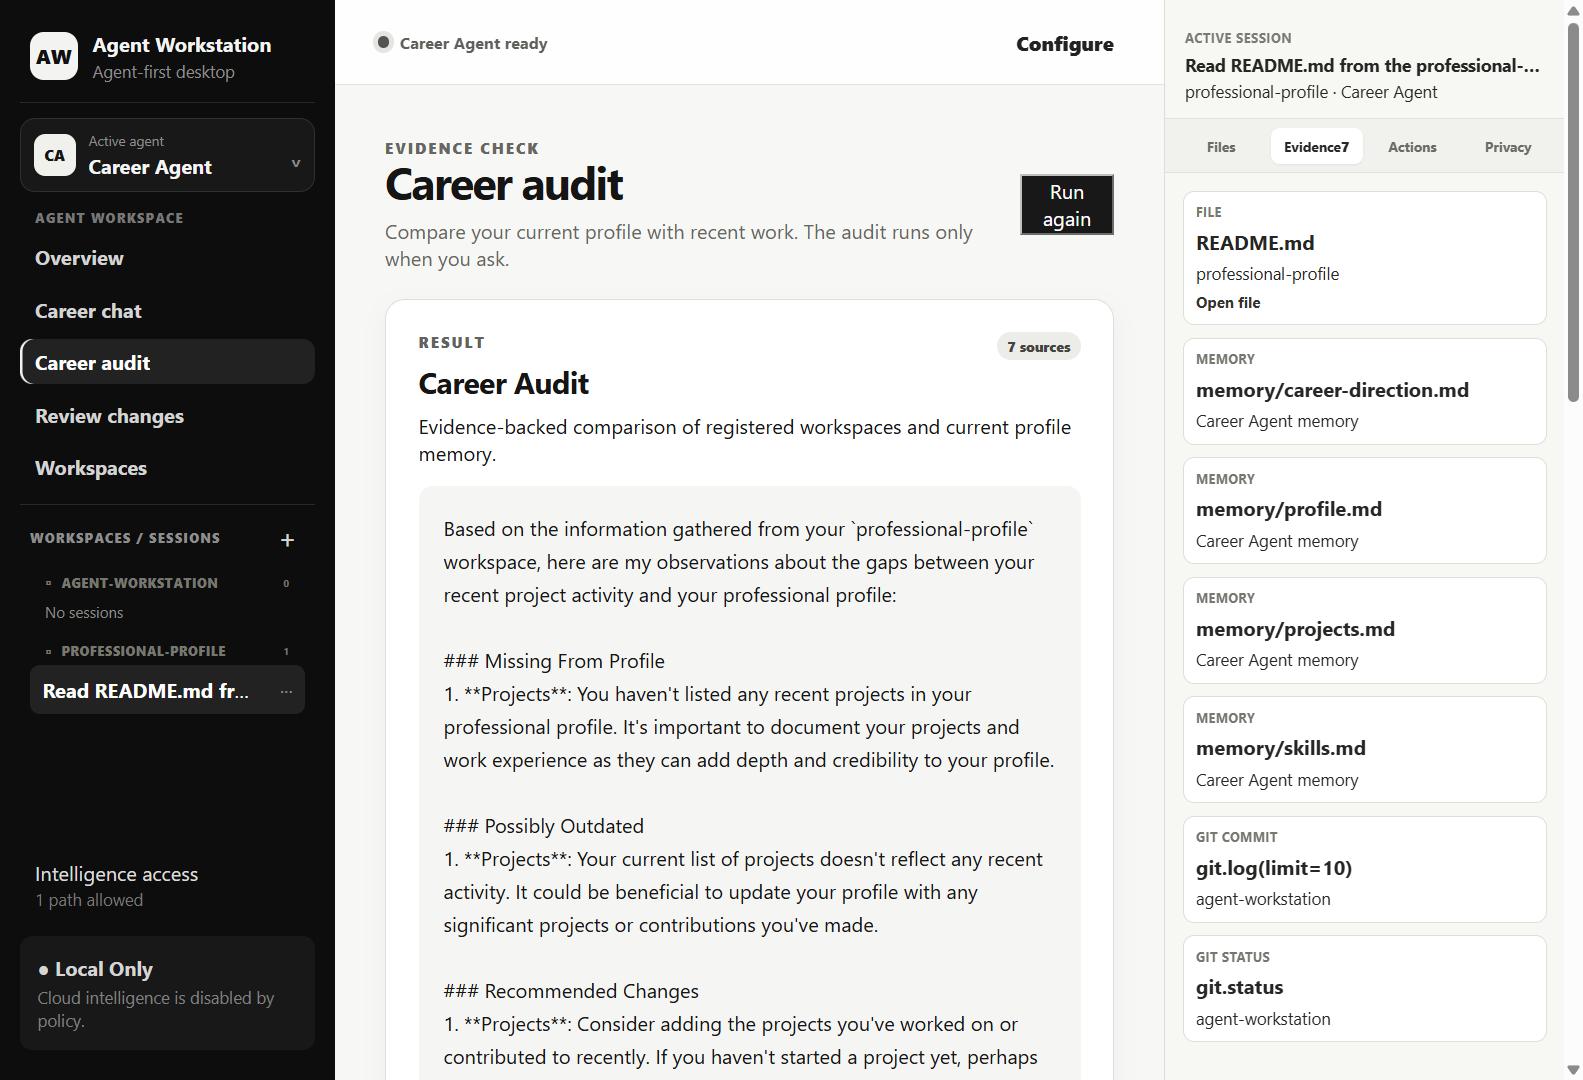
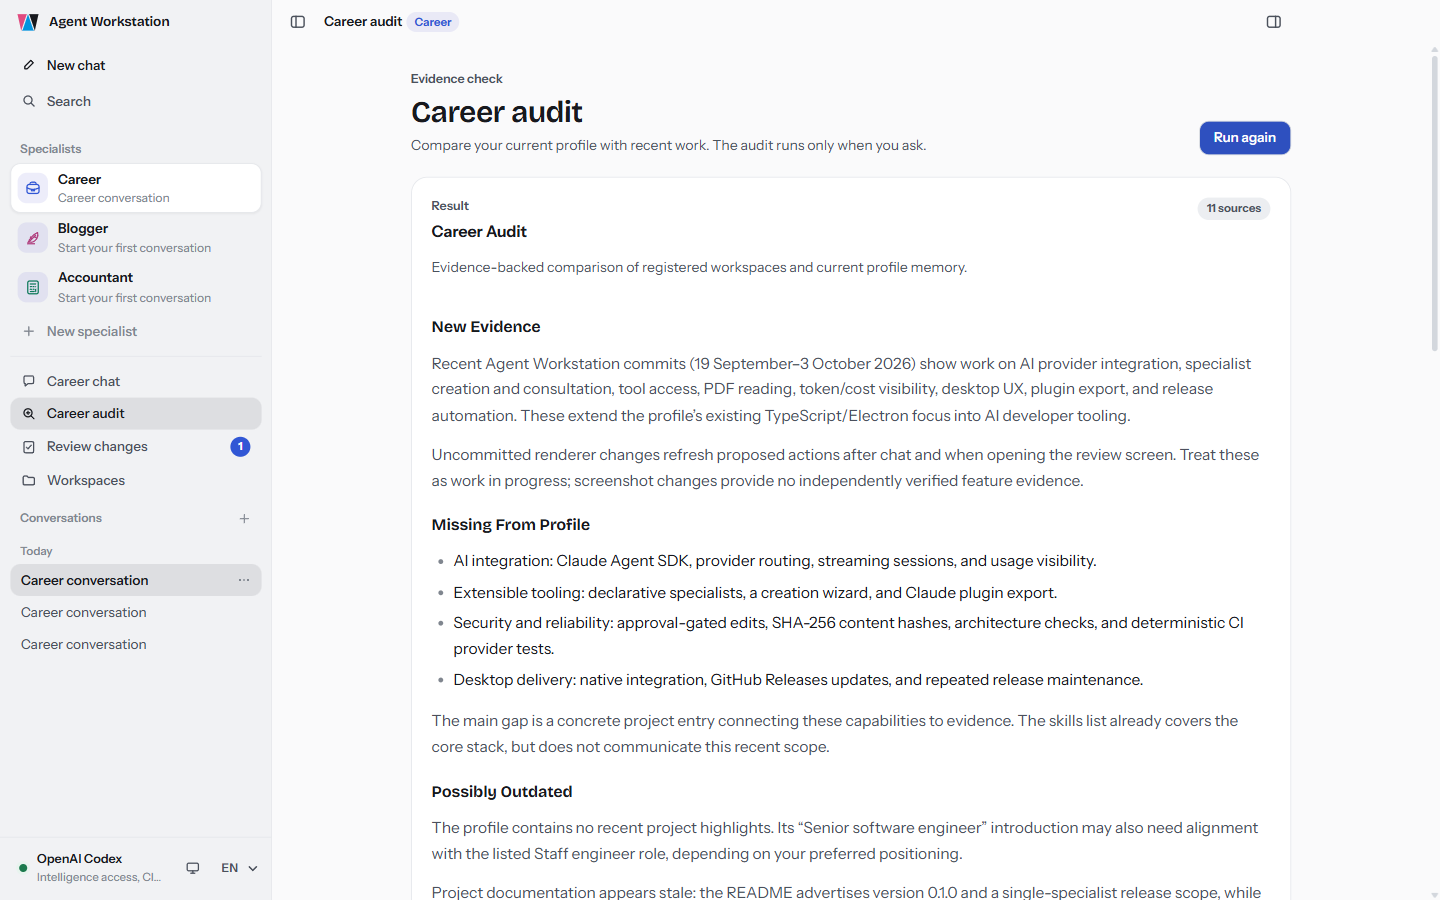
docs: refresh README screenshots; fix: show chat proposals in Review changes (#22)

diff --git a/apps/desktop/renderer/main.tsx b/apps/desktop/renderer/main.tsx
@@ -431,6 +431,8 @@ function App(): JSX.Element {
     setView(next);
     setError(null);
     setNotice(null);
+    // Agents propose changes from chat, so the list can be stale by the time it opens.
+    if (next === "changes") void loadActions().catch((value: unknown) => setError(messageOf(value)));
   };
 
   const createNewChat = (agentId?: string): void => {
@@ -626,6 +628,8 @@ function App(): JSX.Element {
         setPendingChatInput((current) => current?.requestId === requestId ? null : current);
         // Refresh in the background so the composer is usable the moment the reply lands.
         void loadChat().catch((value: unknown) => setError(messageOf(value)));
+        // A turn may have proposed a file change; keep the review badge and list current.
+        void loadActions().catch((value: unknown) => setError(messageOf(value)));
       } catch (value) {
         const message = chatErrorMessage(value);
         if (/abort|cancel/i.test(message)) {

diff --git a/README.md b/README.md
@@ -6,7 +6,7 @@
 
 ### A local-first hub where specialized AI agents work with real repositories, evidence, and human oversight.
 
-[![Version](https://img.shields.io/badge/version-0.1.0-3b82f6?style=for-the-badge)](./package.json)
+[![Release](https://img.shields.io/github/v/release/edgeetech/agentworkstation?style=for-the-badge&color=3b82f6)](https://github.com/edgeetech/agentworkstation/releases/latest)
 [![CI](https://img.shields.io/github/actions/workflow/status/edgeetech/agentworkstation/ci.yml?branch=main&style=for-the-badge&label=CI)](https://github.com/edgeetech/agentworkstation/actions/workflows/ci.yml)
 [![Windows](https://img.shields.io/badge/Windows-MVP-111827?style=for-the-badge&logo=windows11)](#-install-and-run)
 [![Node](https://img.shields.io/badge/Node-20%2B-22c55e?style=for-the-badge&logo=node.js&logoColor=white)](https://nodejs.org)
@@ -141,7 +141,7 @@ one-click choices; EdgeeTech never bills you.
   </tr>
 </table>
 
-<sub>Captured from the desktop app against a local <code>qwen2.5:3b</code> Ollama model reading this repository.</sub>
+<sub>Captured from the desktop app with OpenAI Codex reading this repository and a demo profile.</sub>
 
 ### Ask about real work, not an isolated prompt
 
@@ -150,9 +150,9 @@ tools. Every response keeps the resolved model and source references visible.
 
 <div align="center">
 
-[![Career Agent chat grounded in a registered README file](./docs/images/career-agent-chat.png)](./docs/images/career-agent-chat.png)
+[![Career Agent chat grounded in the Git history of a registered workspace](./docs/images/career-agent-chat.png)](./docs/images/career-agent-chat.png)
 
-<sub>Real local Ollama response using <code>qwen2.5:3b</code>, with the source file shown in the Evidence inspector. <a href="./docs/images/career-agent-chat.png">Click to enlarge</a>.</sub>
+<sub>Real OpenAI Codex response, with the Git evidence it used shown in the Evidence panel. <a href="./docs/images/career-agent-chat.png">Click to enlarge</a>.</sub>
 
 </div>
 
@@ -161,11 +161,11 @@ tools. Every response keeps the resolved model and source references visible.
 <table>
   <tr>
     <td width="50%" valign="top">
-      <a href="./docs/images/new-session-composer.png"><img src="./docs/images/new-session-composer.png" alt="New Career Agent session composer showing workspace, agent, intelligence, permissions, isolation, and quick actions"></a>
-      <br><strong>Start with explicit context</strong><br>
-      Bind a persistent session to a workspace and agent. Auto intelligence,
-      execution policy, permissions, isolation, and declarative quick actions
-      are visible before the first prompt.
+      <a href="./docs/images/new-session-composer.png"><img src="./docs/images/new-session-composer.png" alt="New Career conversation with suggested starting tasks and the approval notice"></a>
+      <br><strong>Start from a clear brief</strong><br>
+      Each specialist opens with its own starting tasks and a reminder that it
+      can read your registered workspaces, but nothing is written until you
+      approve the exact diff.
     </td>
     <td width="50%" valign="top">
       <a href="./docs/images/evidence-first-audit.png"><img src="./docs/images/evidence-first-audit.png" alt="Career Audit with structured file, memory, Git commit, and Git status evidence"></a>
@@ -175,11 +175,17 @@ tools. Every response keeps the resolved model and source references visible.
     </td>
   </tr>
   <tr>
-    <td colspan="2" valign="top">
+    <td width="50%" valign="top">
       <a href="./docs/images/human-approval.png"><img src="./docs/images/human-approval.png" alt="Proposed profile update shown as an exact diff with approve and reject controls"></a>
       <br><strong>Review the diff; keep control of the write</strong><br>
       The model proposes. Agent Workstation creates a PendingAction. Only the
       application can write after explicit human approval.
+    </td>
+    <td width="50%" valign="top">
+      <a href="./docs/images/specialist-profile.png"><img src="./docs/images/specialist-profile.png" alt="Specialist profile dialog editing a specialist's name and title with a live sidebar preview"></a>
+      <br><strong>Make each specialist yours</strong><br>
+      Rename any specialist and give it a title, such as "Sharp accountant".
+      The sidebar preview updates as you type.
     </td>
   </tr>
 </table>
